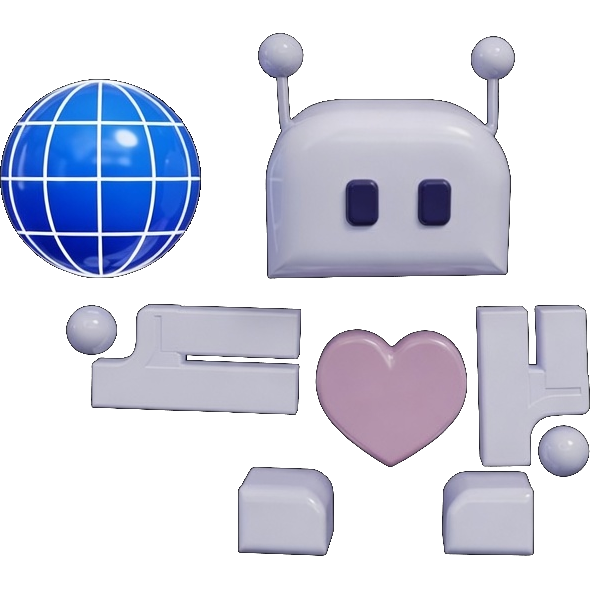
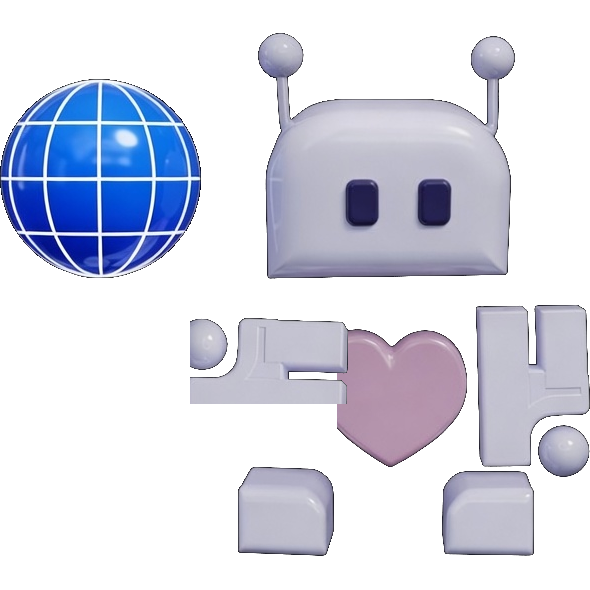
feat(open-web-vectors): restore compact L-arm at 90 degrees
The generated 90° arm had been stretched into a double-bar. Composite
the real hanging L, rotated, so both arms match.

Changed region(s): [[0.0915, 0.4881, 0.6102, 0.7322]]

diff --git a/site/templates/open-web-vectors.html b/site/templates/open-web-vectors.html
@@ -64,8 +64,8 @@
         </g>
       </svg>
       <div class="owv-orbit-scrim"></div>
-      <img class="owv-orbit-robot" src="/images/robot-orbit-520.webp?v=tpose"
-           srcset="/images/robot-orbit-320.webp?v=tpose 320w, /images/robot-orbit-520.webp?v=tpose 520w"
+      <img class="owv-orbit-robot" src="/images/robot-orbit-520.webp?v=armL"
+           srcset="/images/robot-orbit-320.webp?v=armL 320w, /images/robot-orbit-520.webp?v=armL 520w"
            sizes="200px" width="520" height="520" alt="" loading="lazy" decoding="async">
     </div>
     <div class="container">
